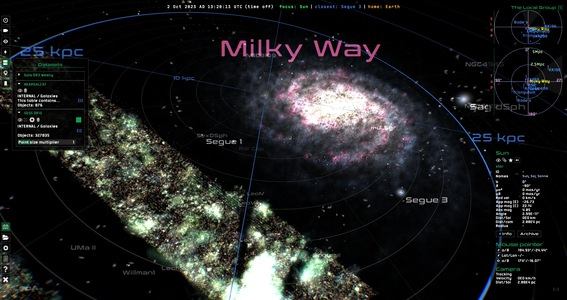
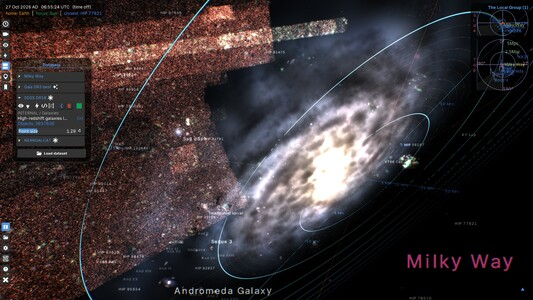
feat(screenshots): Update Milky Way and exoplanets screenshots.

diff --git a/content/media/_index.md b/content/media/_index.md
@@ -11,6 +11,7 @@ tags = ["media", "screnshots", "videos", "audiovisual"]
 {{< gallery >}}
   {{< figure src="img/screenshots/earth.jpg" caption="A view of the Earth in Gaia Sky." >}}
   {{< figure src="img/screenshots/asteroids.jpg" caption="A view of the Asteroids in the Gaia FPR dataset." >}}
+  {{< figure src="img/screenshots/exoplanets-collage.jpg" caption="A view of two procedurally generated exoplanets." >}}
   {{< figure src="img/screenshots/aurora.jpg" caption="Volume rendering of the aurora borealis." >}}
   {{< figure src="img/screenshots/gaia.jpg" caption="The Gaia observatory." >}}
   {{< figure src="img/screenshots/black-hole.jpg" caption="Black hole with accretion disk and light bending, rendered using ray-marching." >}}
@@ -21,7 +22,6 @@ tags = ["media", "screnshots", "videos", "audiovisual"]
   {{< figure src="img/screenshots/iss.jpg" caption="The International Space Station from above." >}}
   {{< figure src="img/screenshots/eclipse.jpg" caption="Eclipse representation with umbra and penumbra outlines." >}}
   {{< figure src="img/screenshots/enterprise.jpg" caption="USS Enterprise above the surface of Mars." >}}
-  {{< figure src="img/screenshots/exoplanets.jpg" caption="A view of two procedurally generated exoplanets." >}}
   {{< figure src="img/screenshots/gaia-sky-VR.jpg" caption="Gaia Sky VR, with its control panel and controller renderings." >}}
   {{< figure src="img/screenshots/orion-moon-earth.jpg" caption="Orion from Artemis-II with the Moon and Earth." >}}
   {{< figure src="img/screenshots/mars-phobos.jpg" caption="Mars and its moon Phobos." >}}
